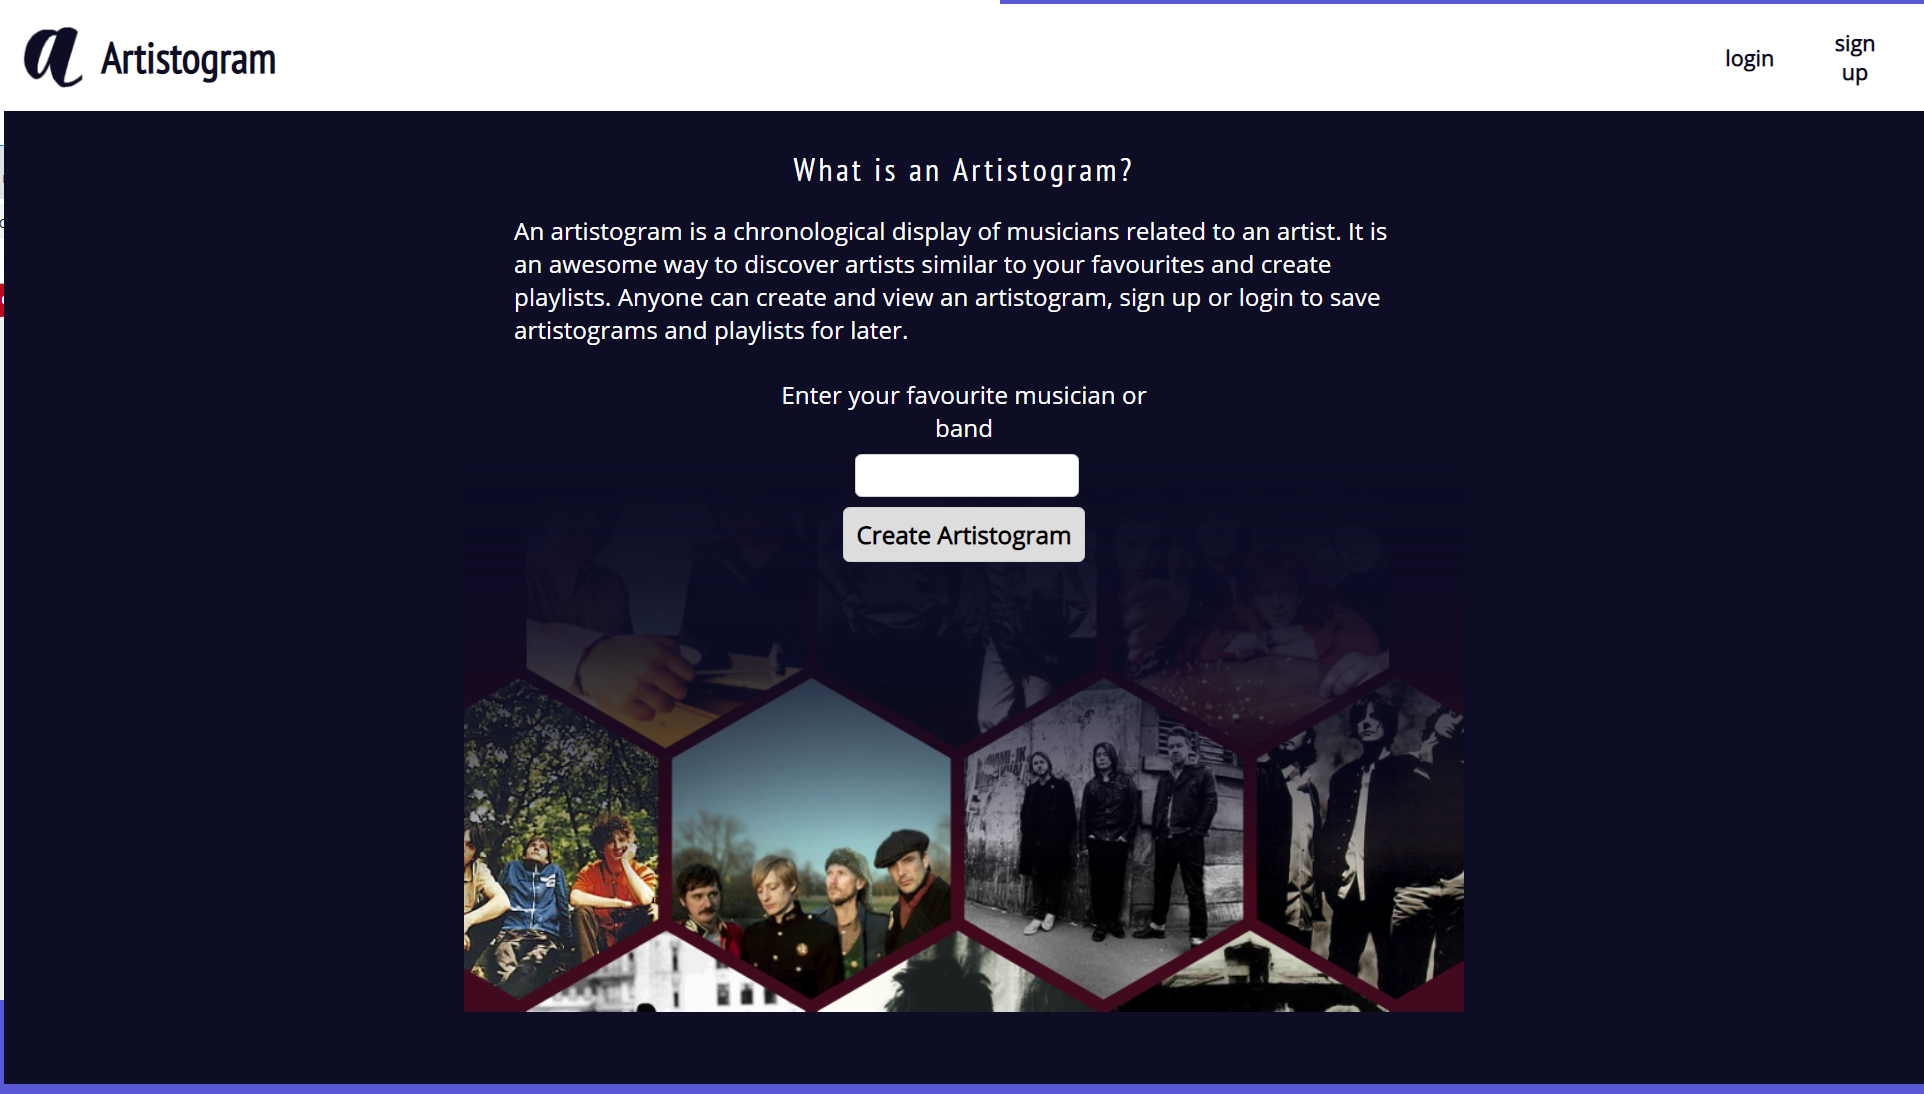
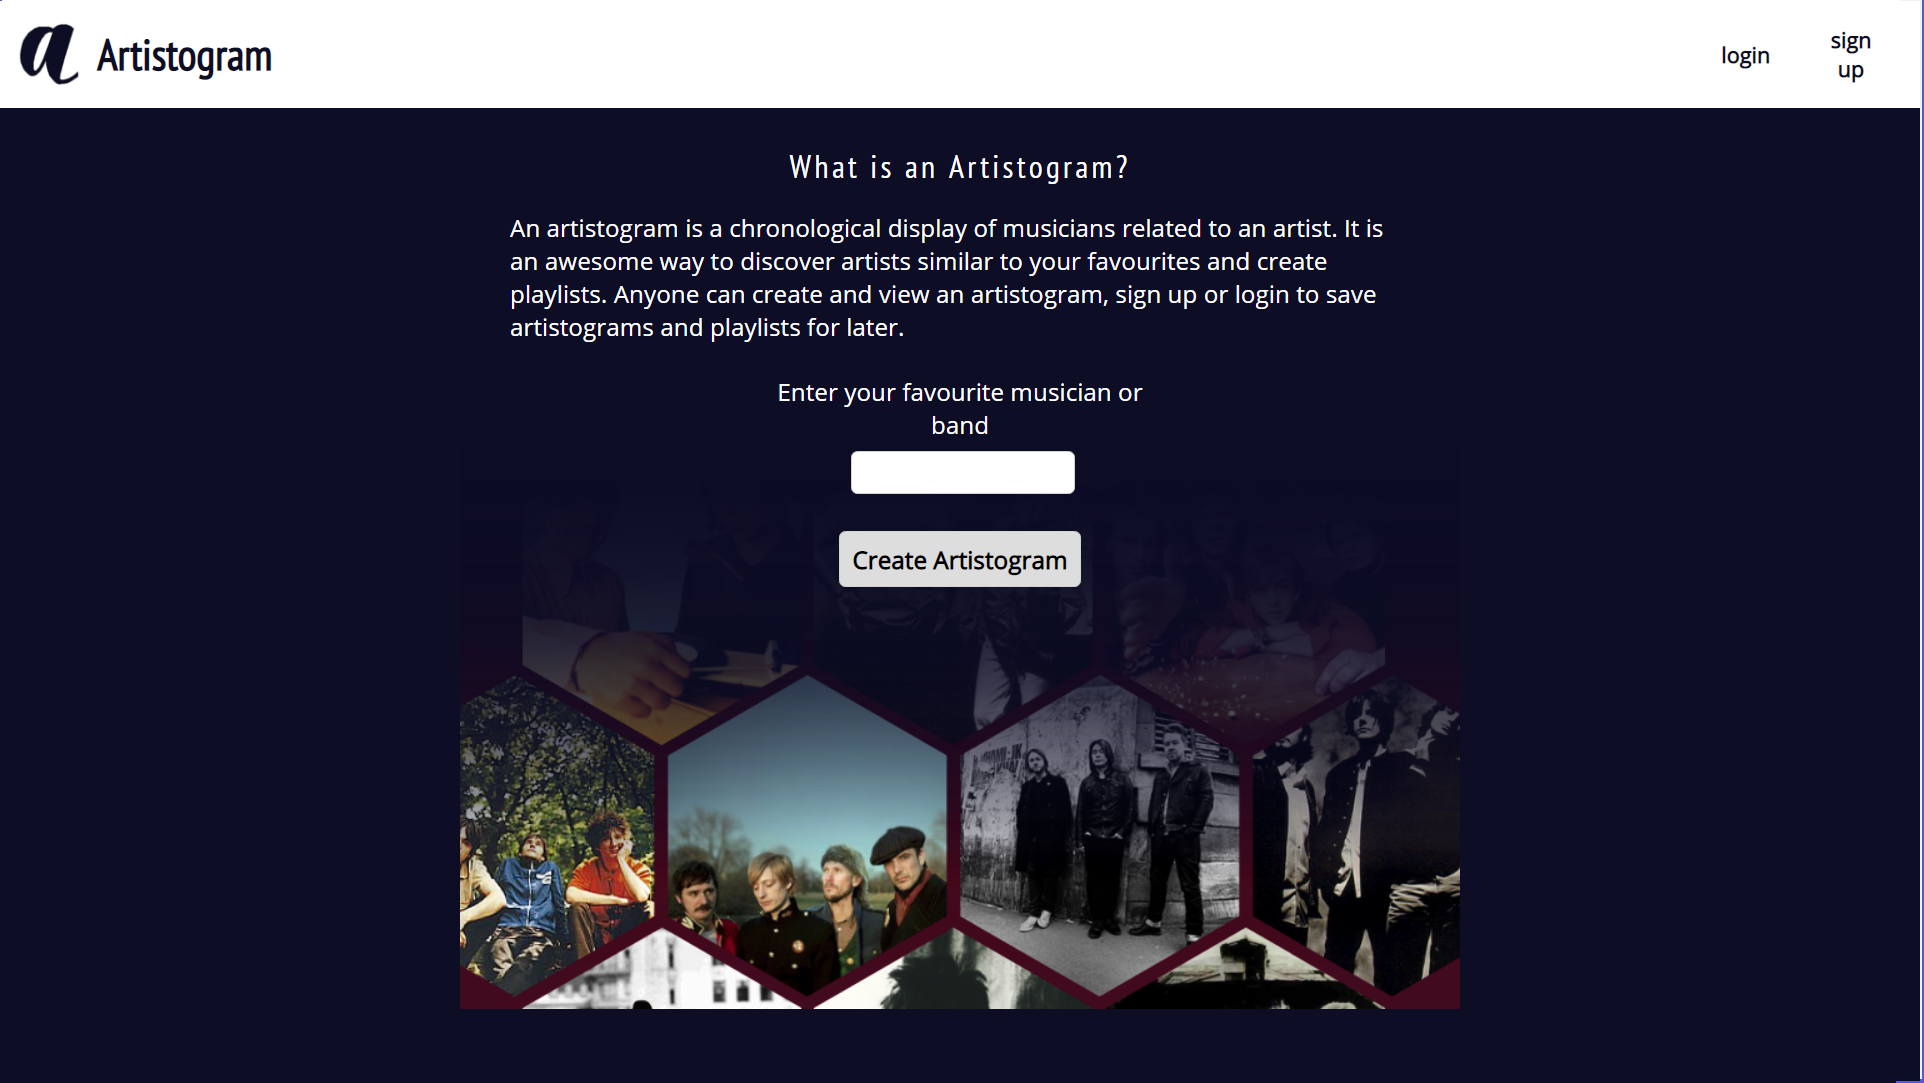
changed landing-page pic

diff --git a/src/components/forms.css b/src/components/forms.css
@@ -34,7 +34,7 @@ button, input[type=submit] {
   vertical-align: center;
   border: 1px solid lightgray;
   border-radius: 5px;
-  margin: 8px 10px;
+  margin: 30px 10px;
   min-width: 50%;
   padding: inherit;
   padding: 8px 10px;
@@ -49,9 +49,6 @@ button, input[type=submit] {
   color: white;
 }
 
-#create-button {
-  margin-top: 20px;
-}
 @media only screen and (max-width: 640px) {
   form {
     border: none;
